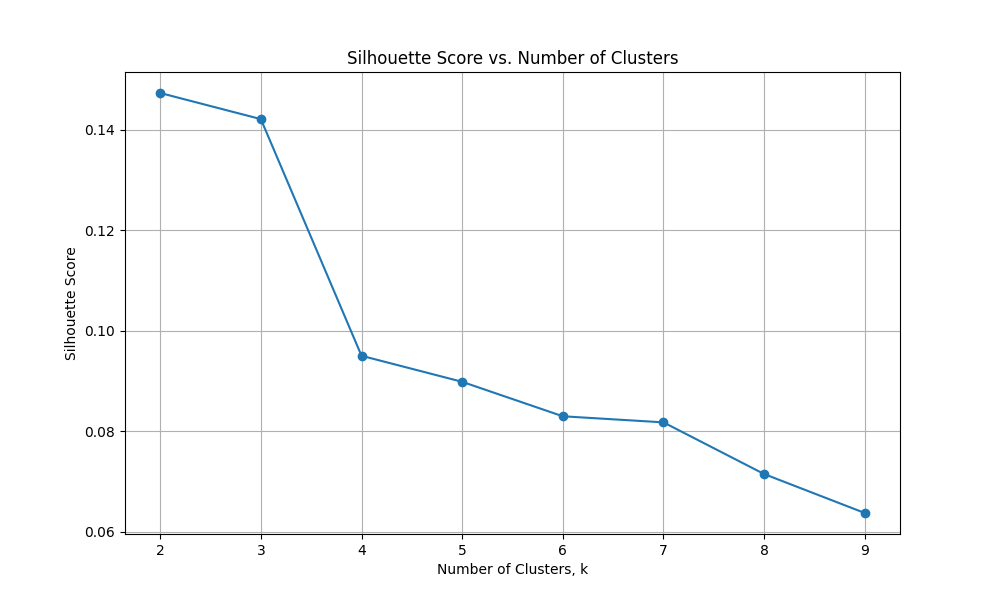
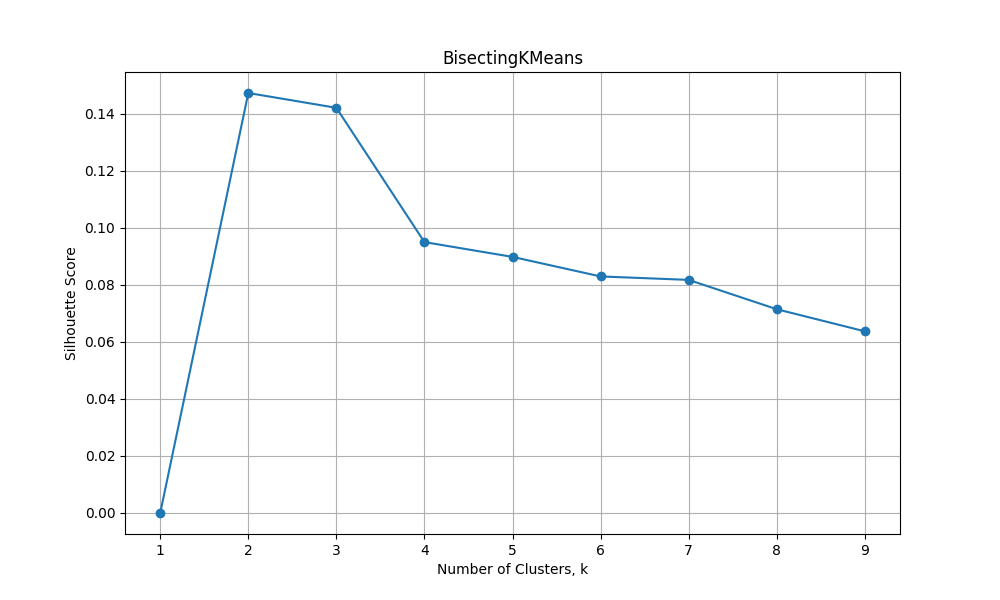
add 0, finish all

diff --git a/COMP527/Assignment/KMeans.py b/COMP527/Assignment/KMeans.py
@@ -280,8 +280,12 @@ def calculate_silhouette(data, cluster_IDs):
                 silhouette.append((b_i - a_i) / max(a_i, b_i)) 
         except Exception as e:
             print(f"Error in calculate_silhouette: {e}")
+            
+    silhouette_value = np.mean(silhouette) # calculate the mean silhouette value
+    if np.isnan(silhouette_value):
+        silhouette_value = 0
 
-    return np.mean(silhouette) # return the mean silhouette value
+    return np.mean(silhouette_value) # return the mean silhouette value
 
 
 def plot_silhouttee(range_k, silhouette_scores):
@@ -301,7 +305,7 @@ def plot_silhouttee(range_k, silhouette_scores):
         plt.plot(range_k, silhouette_scores, marker='o')
         plt.xlabel('Number of Clusters, k')
         plt.ylabel('Silhouette Score')
-        plt.title('Silhouette Score vs. Number of Clusters')
+        plt.title('KMeans')
         plt.grid(True)
         # plt.show()
         current_dir = os.path.dirname(os.path.realpath(__file__))  # get the directory of the script
@@ -311,7 +315,7 @@ def plot_silhouttee(range_k, silhouette_scores):
 
 def main():
     data = load_dataset()
-    range_k = range(2, 10) # actually, k should be larger than 1
+    range_k = range(1, 10) # actually, k should be larger than 1
     silhouette_scores = []
 
     for k in range_k:

diff --git a/COMP527/Assignment/KMeansplusplus.py b/COMP527/Assignment/KMeansplusplus.py
@@ -290,7 +290,11 @@ def calculate_silhouette(data, cluster_IDs):
         except Exception as e:
             print(f"Error in calculate_silhouette: {e}")
 
-    return np.mean(silhouette) # return the mean silhouette value
+    silhouette_value = np.mean(silhouette) # calculate the mean silhouette value
+    if np.isnan(silhouette_value):
+        silhouette_value = 0
+
+    return np.mean(silhouette_value) # return the mean silhouette value
 
 
 def plot_silhouttee(range_k, silhouette_scores):
@@ -310,7 +314,7 @@ def plot_silhouttee(range_k, silhouette_scores):
         plt.plot(range_k, silhouette_scores, marker='o')
         plt.xlabel('Number of Clusters, k')
         plt.ylabel('Silhouette Score')
-        plt.title('Silhouette Score vs. Number of Clusters')
+        plt.title('KMeans++')
         plt.grid(True)
         # plt.show()
         current_dir = os.path.dirname(os.path.realpath(__file__))  # get the directory of the script
@@ -324,7 +328,7 @@ def main():
         print("Failed to load data. Exiting.")
         return
 
-    range_k = range(2, 10)  # It's good that k starts from 2 as k-means doesn't work with k=1
+    range_k = range(1, 10)  # It's good that k starts from 2 as k-means doesn't work with k=1
     silhouette_scores = []
 
     for k in range_k:

diff --git a/COMP527/Assignment/BisectingKMeans.py b/COMP527/Assignment/BisectingKMeans.py
@@ -280,7 +280,11 @@ def calculate_silhouette(data, cluster_IDs):
         except Exception as e:
             print(f"Error in calculate_silhouette: {e}")
 
-    return np.mean(silhouette) # return the mean silhouette value
+    silhouette_value = np.mean(silhouette) # calculate the mean silhouette value
+    if np.isnan(silhouette_value):
+        silhouette_value = 0
+
+    return np.mean(silhouette_value) # return the mean silhouette value
 
 
 def plot_silhouttee(range_k, silhouette_scores):
@@ -300,7 +304,7 @@ def plot_silhouttee(range_k, silhouette_scores):
         plt.plot(range_k, silhouette_scores, marker='o')
         plt.xlabel('Number of Clusters, k')
         plt.ylabel('Silhouette Score')
-        plt.title('Silhouette Score vs. Number of Clusters')
+        plt.title('BisectingKMeans')
         plt.grid(True)
         # plt.show()
         current_dir = os.path.dirname(os.path.realpath(__file__))  # get the directory of the script
@@ -380,7 +384,7 @@ def bisecting_kmeans(data, num_clusters, max_iter):
 def main():
     try:
         data = load_dataset()
-        range_k = range(2, 10) # actually, k should be larger than 1
+        range_k = range(1, 10) # actually, k should be larger than 1
         silhouette_scores = []
 
         for k in range_k:

diff --git a/COMP527/Assignment/KMeansSynthetic.py b/COMP527/Assignment/KMeansSynthetic.py
@@ -256,7 +256,11 @@ def calculate_silhouette(data, cluster_IDs):
         except Exception as e:
             print(f"Error in calculate_silhouette: {e}")
 
-    return np.mean(silhouette) # return the mean silhouette value
+    silhouette_value = np.mean(silhouette) # calculate the mean silhouette value
+    if np.isnan(silhouette_value):
+        silhouette_value = 0
+
+    return np.mean(silhouette_value) # return the mean silhouette value
 
 
 def plot_silhouttee(range_k, silhouette_scores):
@@ -276,7 +280,7 @@ def plot_silhouttee(range_k, silhouette_scores):
         plt.plot(range_k, silhouette_scores, marker='o')
         plt.xlabel('Number of Clusters, k')
         plt.ylabel('Silhouette Score')
-        plt.title('Silhouette Score vs. Number of Clusters')
+        plt.title('KMeansSynthetic')
         plt.grid(True)
         # plt.show()
         current_dir = os.path.dirname(os.path.realpath(__file__))  # get the directory of the script
@@ -288,7 +292,7 @@ def main():
     # data = load_dataset()
     try:
         data = generate_data()
-        range_k = range(2, 10) # actually, k should be larger than 1
+        range_k = range(1, 10) # actually, k should be larger than 1
         silhouette_scores = []
 
         for k in range_k:
